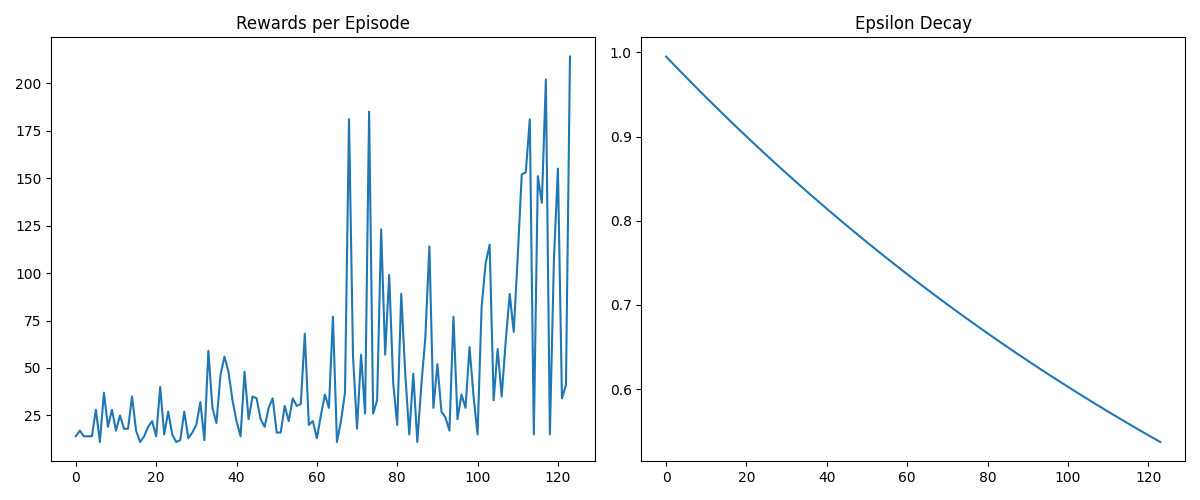
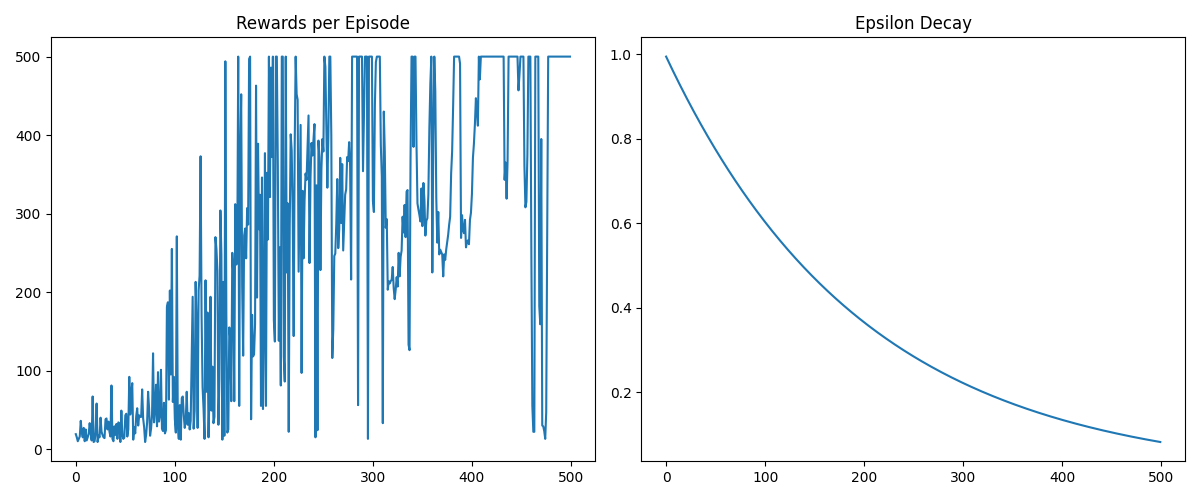
Fix Render. test/train separated

diff --git a/utils.py b/utils.py
@@ -1,4 +1,4 @@
-import numpy as np
+import os
 import gymnasium as gym
 from collections import deque
 import random
@@ -182,6 +182,7 @@ class CartPole_DQN():
         - epsilon_min: epsilon value to stop decay at
         - epsilon_decay: factor to decay epsilon by each ___
         """
+        self.episodes = episodes
         epsilon = epsilon_init
         episode_rewards = []    # Store episode rewards
         epsilon_hist = []       # Track epsilon values for plotting
@@ -228,7 +229,7 @@ class CartPole_DQN():
             plt.title('Epsilon Decay')
             plt.tight_layout()
             plt.savefig("cartpole_dqn_training.png")
-            
+        return
     
     def test(self, episodes=5):
         """Run the trained policy DQN in the env 'episodes' times. Creates renders"""
@@ -244,4 +245,23 @@ class CartPole_DQN():
                 self.env.render()   # Render the environment for visualization
         
         self.env.close()
+        return
+    
+    
+    def save_weights(self, weights_path):
+        """Save the model weights to weights_path after training"""
+        torch.save(self.policy_dqn.state_dict(), weights_path)
+        print(f"Trained model weights savef to {weights_path} after {self.episodes} episodes.")
+        return
+        
+    
+    def load_weights(self, weights_path):
+        """Load model weights from weights_path before testing"""
+        if os.path.exists(weights_path):                # Extra safety check           
+            model_weights = torch.load(weights_path, map_location=self.device)
+            self.policy_dqn.load_state_dict(model_weights)
+            # We do not need to load weights into the target netwrok for testing
+            print(f"Loaded model weights from {weights_path}!")
+        else:
+            print(f"Warning: no model weights found. at {weights_path}, running untrained.")
         return

diff --git a/main.py b/main.py
@@ -1,17 +1,40 @@
+import os
+import argparse
 import gymnasium as gym
 from utils import CartPole_DQN
 
-def main():
+def main(mode, weights_path):
     
-    # Train the environment
-    env = gym.make("CartPole-v1", render_mode=None)
-    agent = CartPole_DQN(env)
-    agent.train(500)
+    if mode == 'train':
+        # Train the environment and save the model weights
+        env = gym.make("CartPole-v1", render_mode=None)
+        agent = CartPole_DQN(env)
+        agent.train(500)
+        agent.save_weights(weights_path)
     
-    # Test the environment
-    test_env = gym.make("CartPole-v1", render_mode="human")
-    agent.env = test_env
-    agent.test(5)
+    elif mode == 'test':
+        # Test the environment using saved model weights
+        env = gym.make("CartPole-v1", render_mode="human") # error
+        agent = CartPole_DQN(env)
+        agent.load_weights(weights_path)
+        agent.test(5)
+    
     
 if __name__ == "__main__":
-    main()
+    
+    # Argument parser for user to indicate mode and weights path
+    parser =  argparse.ArgumentParser()
+    parser.add_argument('--mode', choices=['train', 'test'], required=True, help='Mode: train or test')
+    parser.add_argument('--weights', type=str, default='cartpole_weights.pth', help="Path to save/load model weights")
+    args = parser.parse_args()
+    
+    # Extract arguments to pass into main
+    mode = args.mode
+    weights_path = args.weights
+    
+    # Check if valid weights are passed for testing
+    if (mode =='test') and not (os.path.exists(weights_path)):
+        print("Error: No trained weights found. Run with '--train' first.") 
+        exit(1)
+        
+    main(mode, weights_path)
